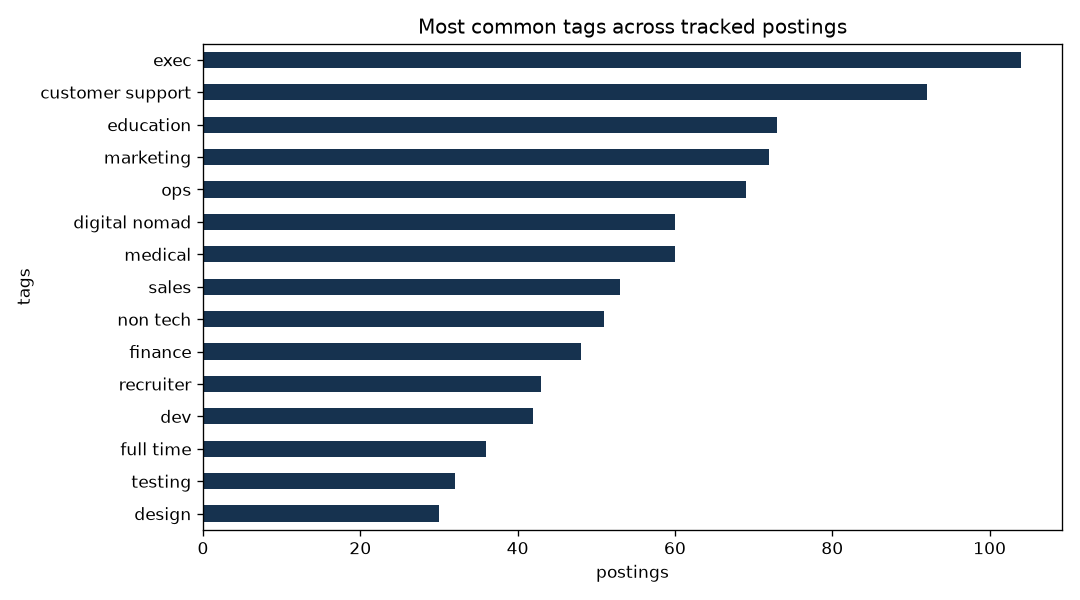
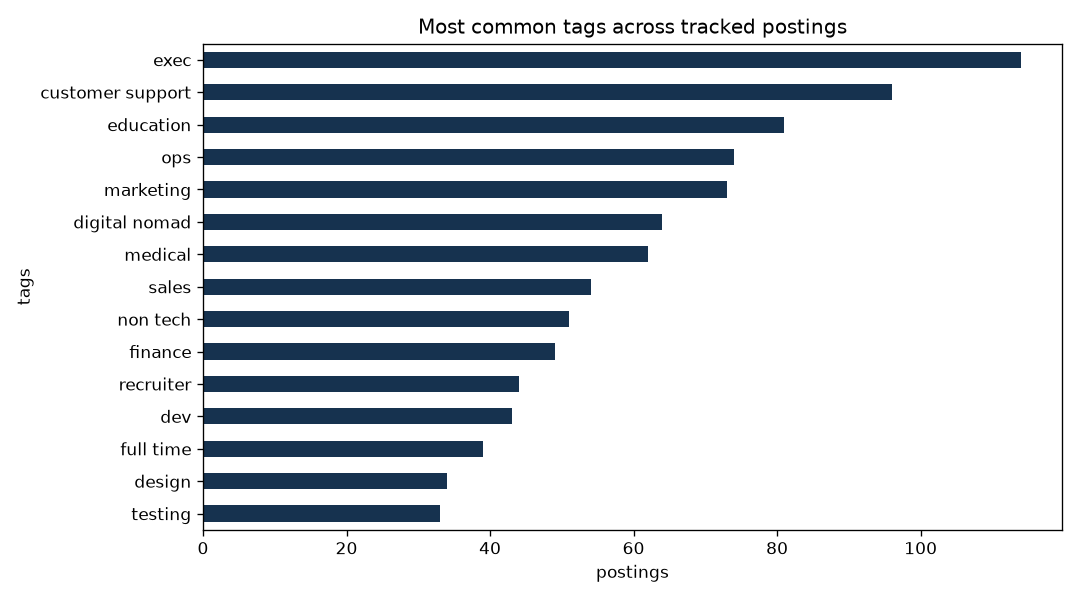
Daily data update

diff --git a/README.md b/README.md
@@ -13,14 +13,14 @@ reporting end to end.
 ## Dashboard
 
 <!-- dashboard:start -->
-*Last updated: 2026-08-31 19:23 UTC*
+*Last updated: 2026-09-01 17:09 UTC*
 
 | | |
 |---|---|
-| Postings tracked | 175 |
-| Companies | 151 |
-| New since last run | 8 |
-| Data/ML-related share | 15% |
+| Postings tracked | 194 |
+| Companies | 165 |
+| New since last run | 19 |
+| Data/ML-related share | 17% |
 | Median advertised max salary | $750,000 |
 
 ![Postings per week](reports/figures/postings_per_week.png)
